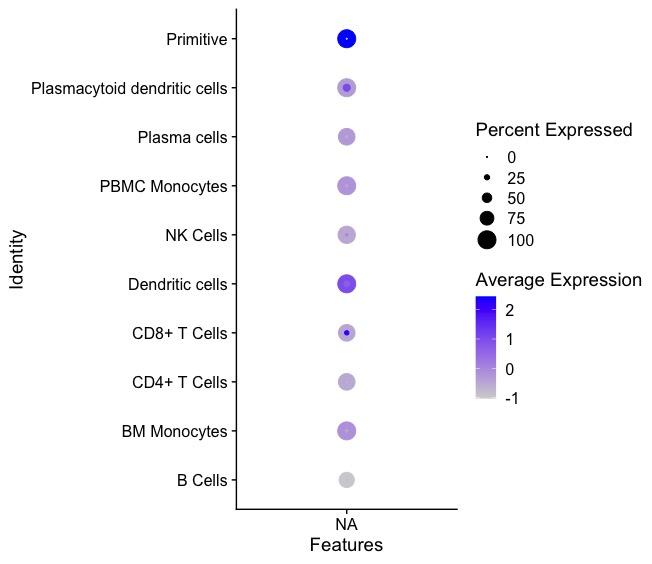
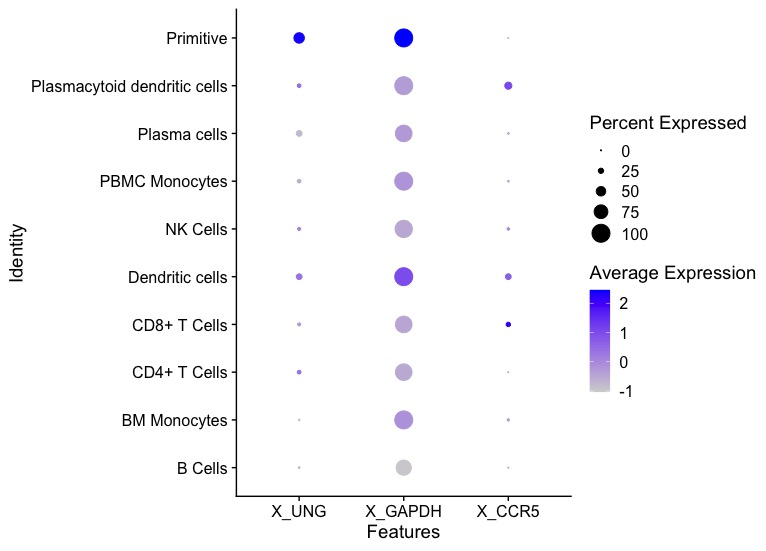
updated plot_dot image.

diff --git a/README.md b/README.md
@@ -79,9 +79,8 @@ fetch_reduction(
 For SingleCellExperiment
 
 ```
-sce <- AML_SCE()
 FetchData(
-      sce,
+      AML_SCE(),
       slot = "logcounts",
       vars =
         c("AB_CD117-AB",
@@ -103,7 +102,7 @@ FetchData(
     )
 
 fetch_metadata(
-      sce, 
+      AML_SCE(), 
       vars = c("Batch", 
                "nCount_RNA"
                )
@@ -111,7 +110,7 @@ fetch_metadata(
 #Can use full_table=T which is much more computationally efficient than selecting vars.
 
 fetch_reduction(
-      sce,
+      AML_SCE(),
       dims = c(1, 2), 
       reduction = default_reduction(sce), 
       cells = get_all_cells(sce)
@@ -121,9 +120,8 @@ fetch_reduction(
 AnnData:
 
 ```
-AML_anndata <- AML_h5ad()
 FetchData(
-      AML_anndata,
+      AML_h5ad(),
       vars =
         c("protein_CD123-AB",
           "protein_CD117-AB",
@@ -139,7 +137,7 @@ FetchData(
     )
     
 fetch_metadata(
-      AML_anndata, 
+      AML_h5ad(), 
       vars = c("Batch", 
                "nCount_RNA"
                )
@@ -147,7 +145,7 @@ fetch_metadata(
 #Can use full_table=T which is much more computationally efficient than selecting vars.
 
 fetch_reduction(
-      AML_anndata,
+      AML_h5ad(),
       dims = c(1, 2), 
       reduction = default_reduction(AML_anndata), 
       cells = get_all_cells(AML_anndata)
@@ -157,9 +155,20 @@ fetch_reduction(
 #### Object Exploration Methods
 
 ```
-meta_varnames(AML_Seurat)
+> meta_varnames(AML_h5ad())
+ [1] "nCount_RNA"          "nFeature_RNA"        "nCount_AB"           "nFeature_AB"         "nCount_BOTH"         "nFeature_BOTH"      
+ [7] "BOTH_snn_res.0.9"    "seurat_clusters"     "Prediction_Ind"      "BOTH_snn_res.1"      "ClusterID"           "Batch"              
+[13] "x"                   "y"                   "x_mean"              "y_mean"              "cor"                 "ct"                 
+[19] "prop"                "meandist"            "cDC"                 "B.cells"             "Myelocytes"          "Erythroid"          
+[25] "Megakaryocte"        "Ident"               "RNA_snn_res.0.4"     "condensed_cell_type"
+```
 
-unique_values(AML_Seurat, var="nFeature_RNA")
+```
+> unique_values(AML_h5ad(), var="condensed_cell_type")
+ [1] Plasma cells                 Primitive                    Dendritic cells              Plasmacytoid dendritic cells
+ [5] BM Monocytes                 NK Cells                     CD8+ T Cells                 B Cells                     
+ [9] CD4+ T Cells                 PBMC Monocytes              
+10 Levels: B Cells BM Monocytes CD4+ T Cells CD8+ T Cells Dendritic cells NK Cells PBMC Monocytes ... Primitive
 ```
 
 The following object exploration methods exist for Seurat and SingleCellExperiment objects. They are currently not implemented for AnnData objects.
@@ -176,7 +185,7 @@ SCUBA includes plotting functions that produce Seurat-style plots from all three
 
 ```
 plot_feature(
-    AML_anndata, 
+    AML_h5ad(), 
     feature = "UNG"
   )
 ```
@@ -185,9 +194,9 @@ plot_feature(
 
 ```
 plot_dot(
-      AML_anndata, 
+      AML_h5ad(), 
       group_by = "condensed_cell_type", 
-      features = c("UNG", "GAPDH", "CCR5")
+      features = c("X_UNG", "X_GAPDH", "X_CCR5")
     )
 ```
 ![plot_dot](inst/images/examples/plot_dot.jpeg)
@@ -195,7 +204,7 @@ plot_dot(
 
 ```
 plot_reduction(
-      AML_anndata,
+      AML_h5ad(),
       group_by="condensed_cell_type",
       split_by="Batch"
     )
@@ -204,7 +213,7 @@ plot_reduction(
 
 ```
 plot_ridge(
-      AML_anndata, 
+      AML_h5ad(), 
       group_by = "condensed_cell_type", 
       features = c("UNG", "GAPDH")
     )
@@ -213,7 +222,7 @@ plot_ridge(
 
 ```
 plot_scatter(
-      AML_anndata, 
+      AML_h5ad(), 
       group_by = "condensed_cell_type", 
       feature_1 = "GAPDH", 
       feature_2 = "UNG"
@@ -223,7 +232,7 @@ plot_scatter(
 
 ```
 plot_violin(
-      AML_anndata, 
+      AML_h5ad(), 
       group_by = "condensed_cell_type",
       features = c("UNG", "GAPDH")
     )
